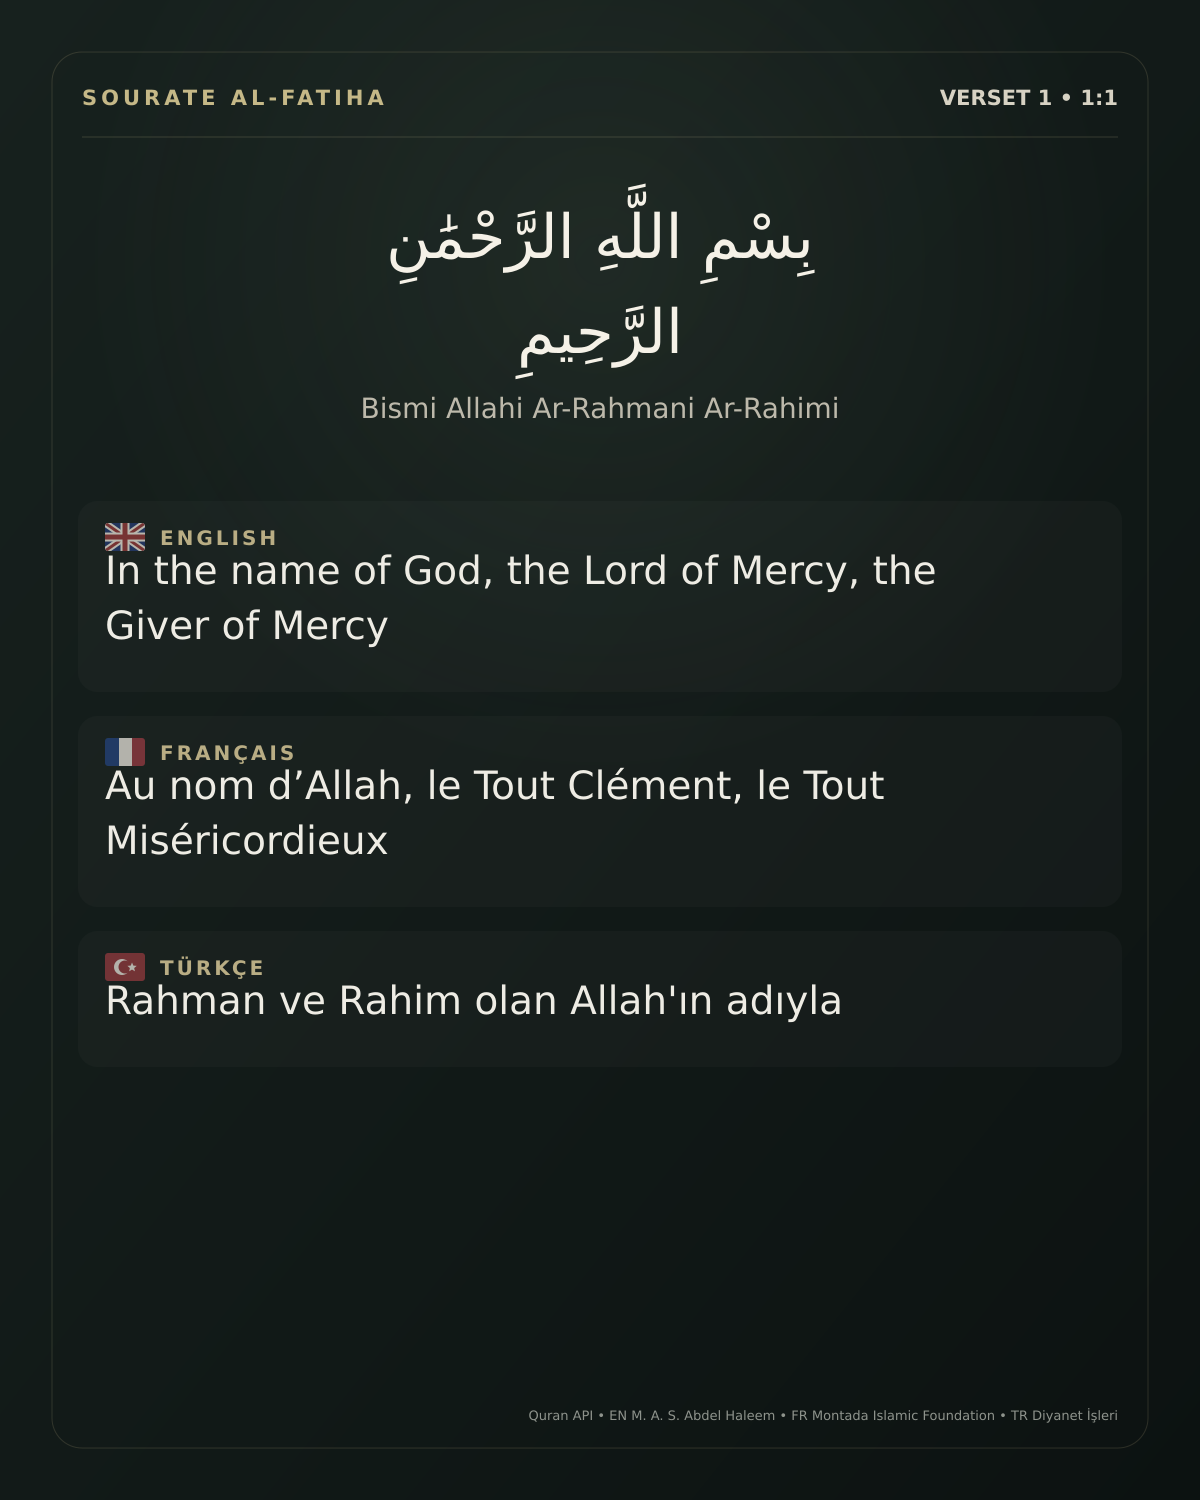
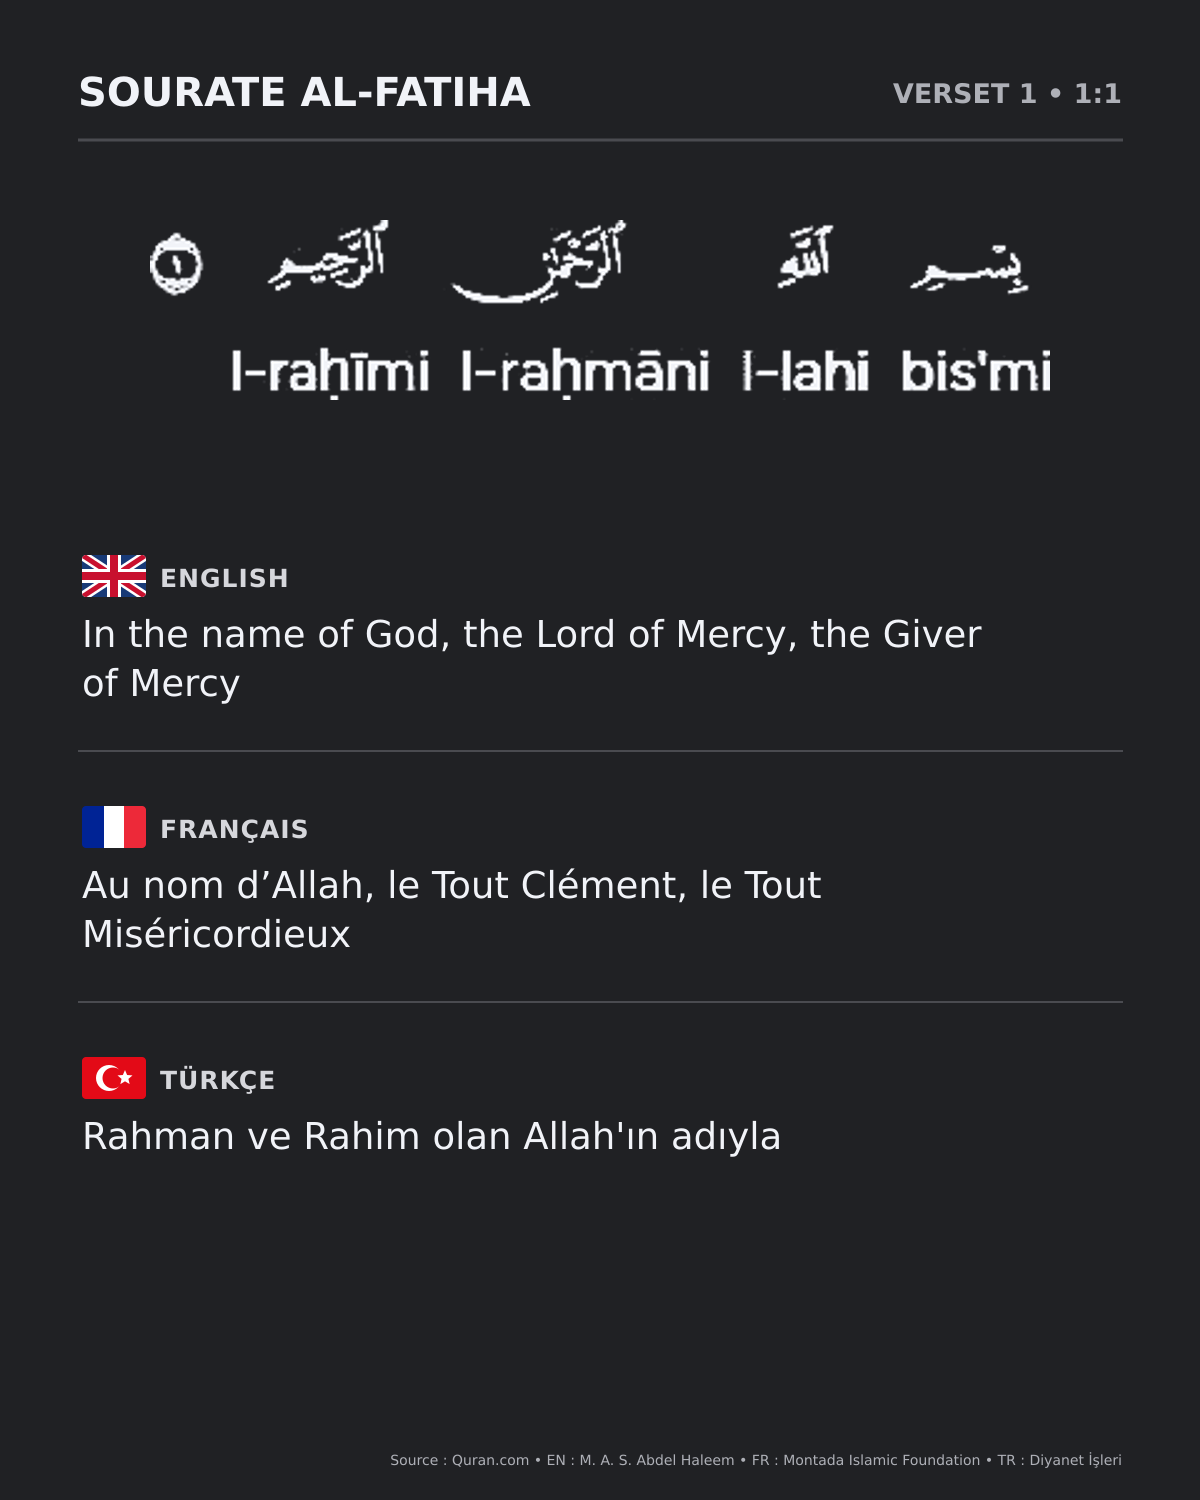
Rétablit la DA sobre et capture Quran.com mot par mot

diff --git a/README.md b/README.md
@@ -9,8 +9,9 @@ Le dépôt est volontairement en **mode aperçu uniquement** : aucun workflow qu
 Les images contiennent :
 
 - la référence en haut ;
-- l'arabe et sa translittération rapprochés ;
+- une capture fidèle de Quran.com : chaque mot arabe conserve ses signes coraniques et sa phonétique apparaît directement dessous ;
 - les traductions anglaise, française et turque plus espacées ;
+- un fond gris sombre uniforme, sans cartes ni encadrés colorés ; seuls les drapeaux gardent leurs couleurs ;
 - une source discrète en bas à droite ;
 - un texte alternatif détaillé destiné aux lecteurs d'écran.
 
@@ -26,7 +27,7 @@ npm run preview
 
 ## Sources de texte
 
-Les données viennent du projet open source [Quran API](https://github.com/fawazahmed0/quran-api) : texte arabe vocalisé Quran Simple (AlQuran Cloud), phonétique, traduction anglaise de M. A. S. Abdel Haleem, traduction française de Montada Islamic Foundation et traduction turque de Diyanet İşleri.
+Le bloc arabe et sa phonétique sont capturés directement depuis [Quran.com](https://quran.com). Les traductions et le texte alternatif viennent du projet open source [Quran API](https://github.com/fawazahmed0/quran-api) : texte arabe Uthmani pour les lecteurs d'écran, traduction anglaise de M. A. S. Abdel Haleem, traduction française de Montada Islamic Foundation et traduction turque de Diyanet İşleri.
 
 ## Sécurité
 
